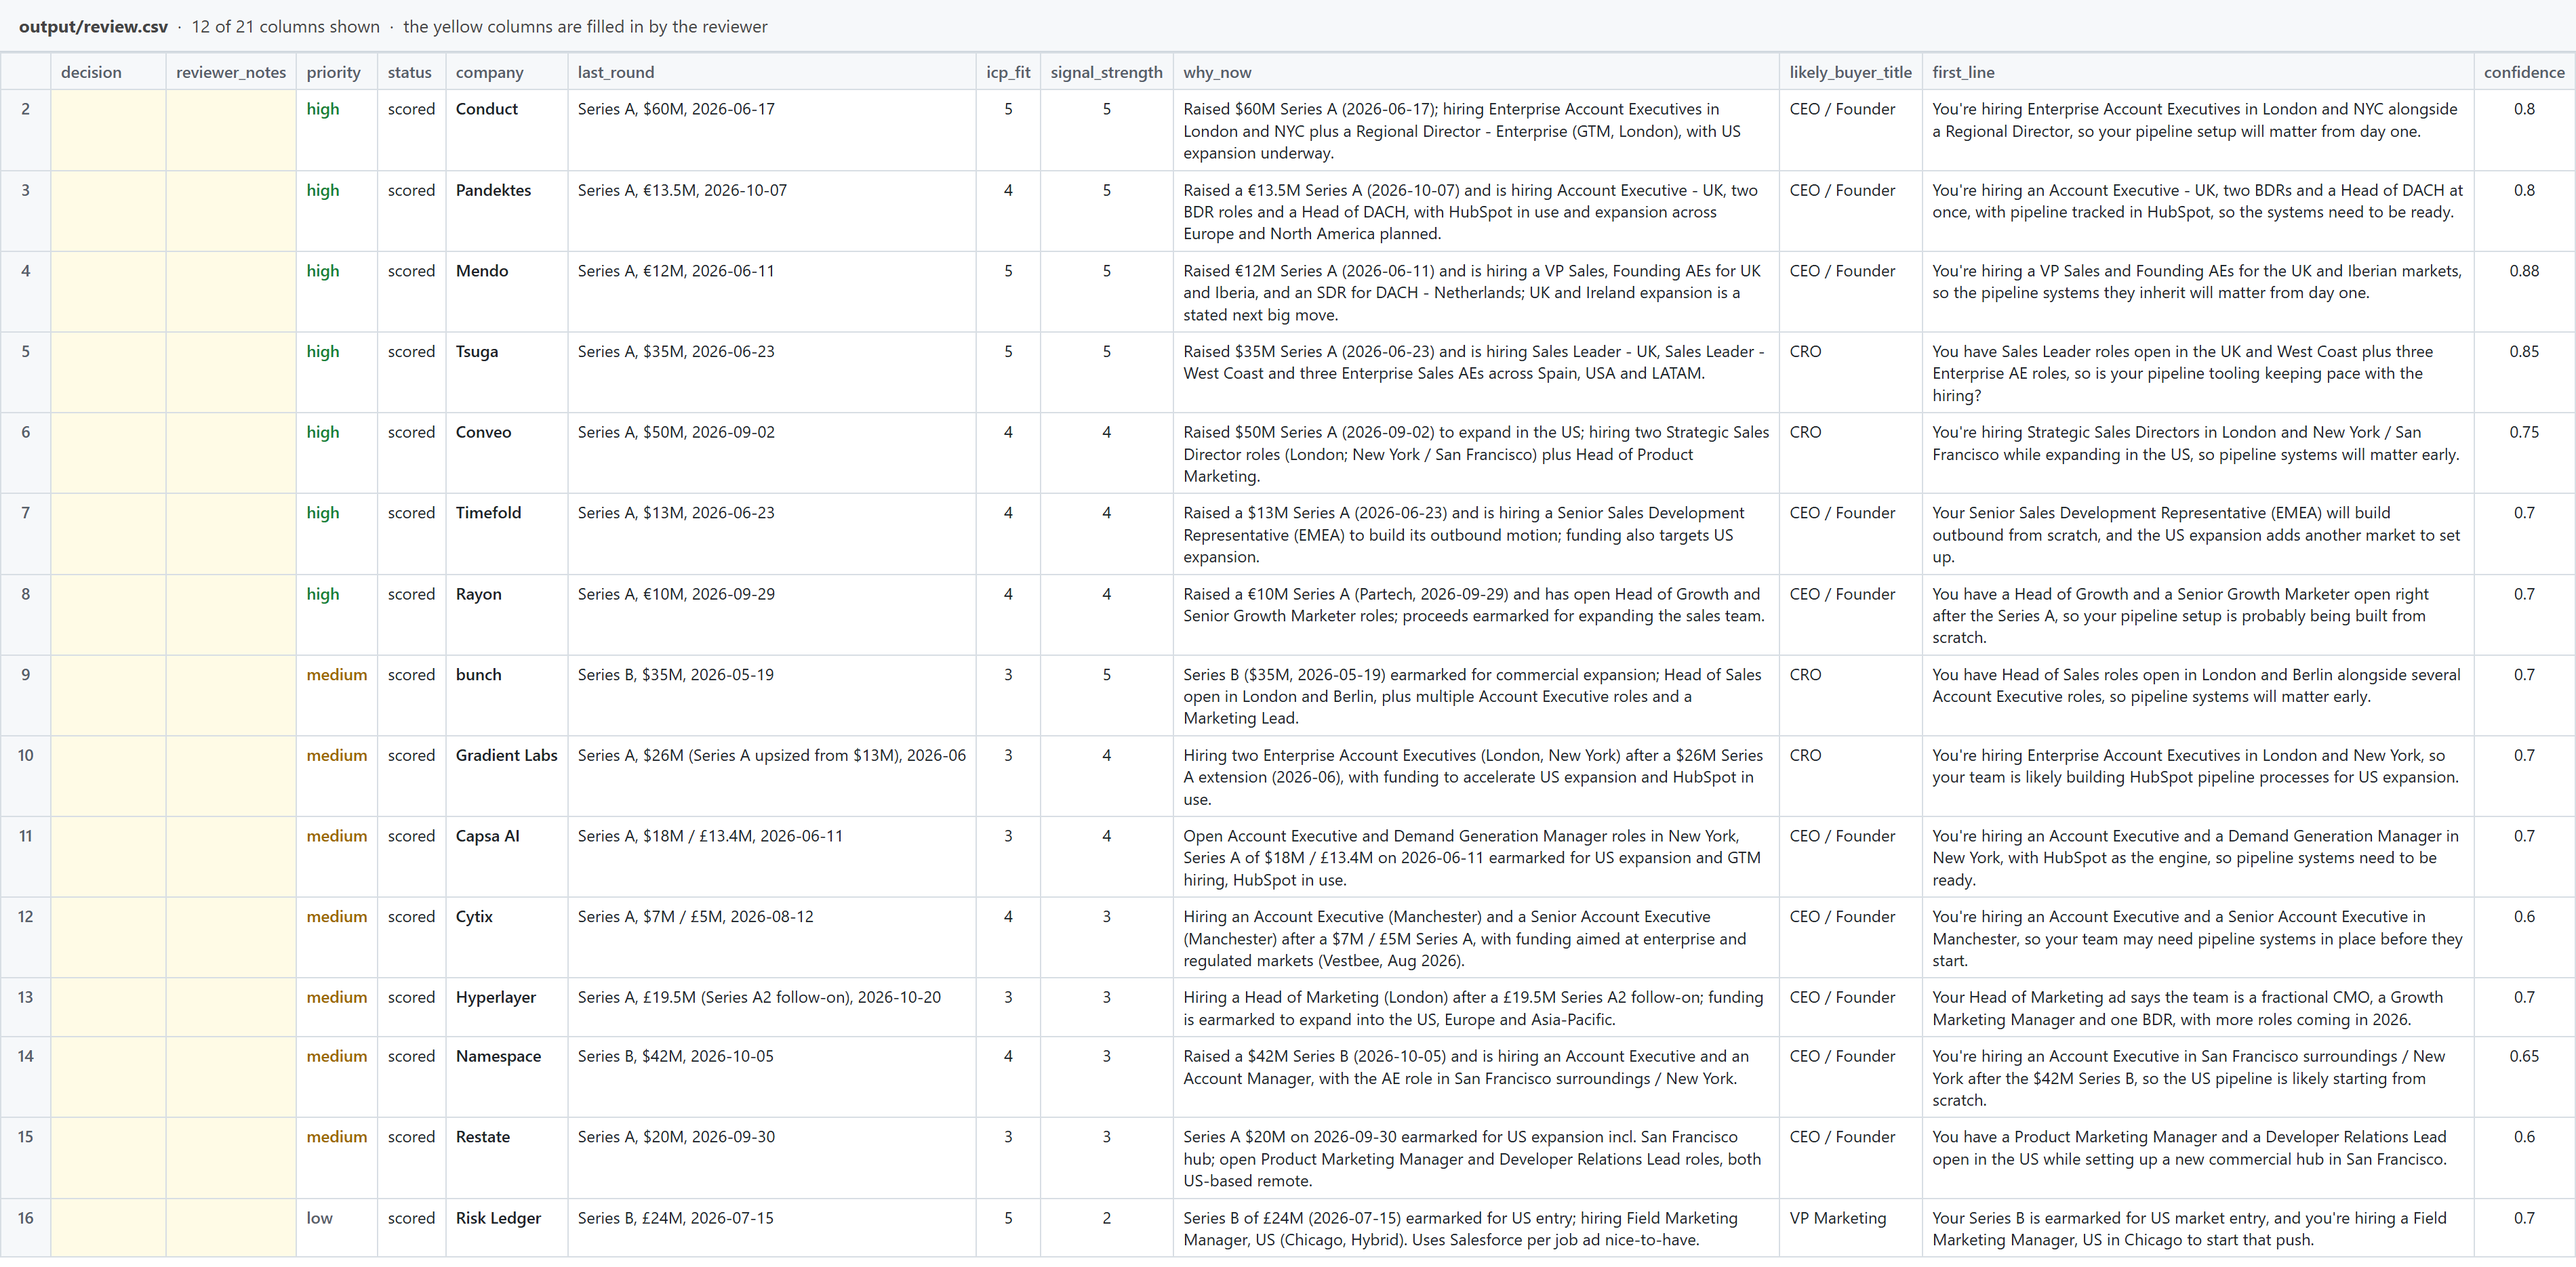
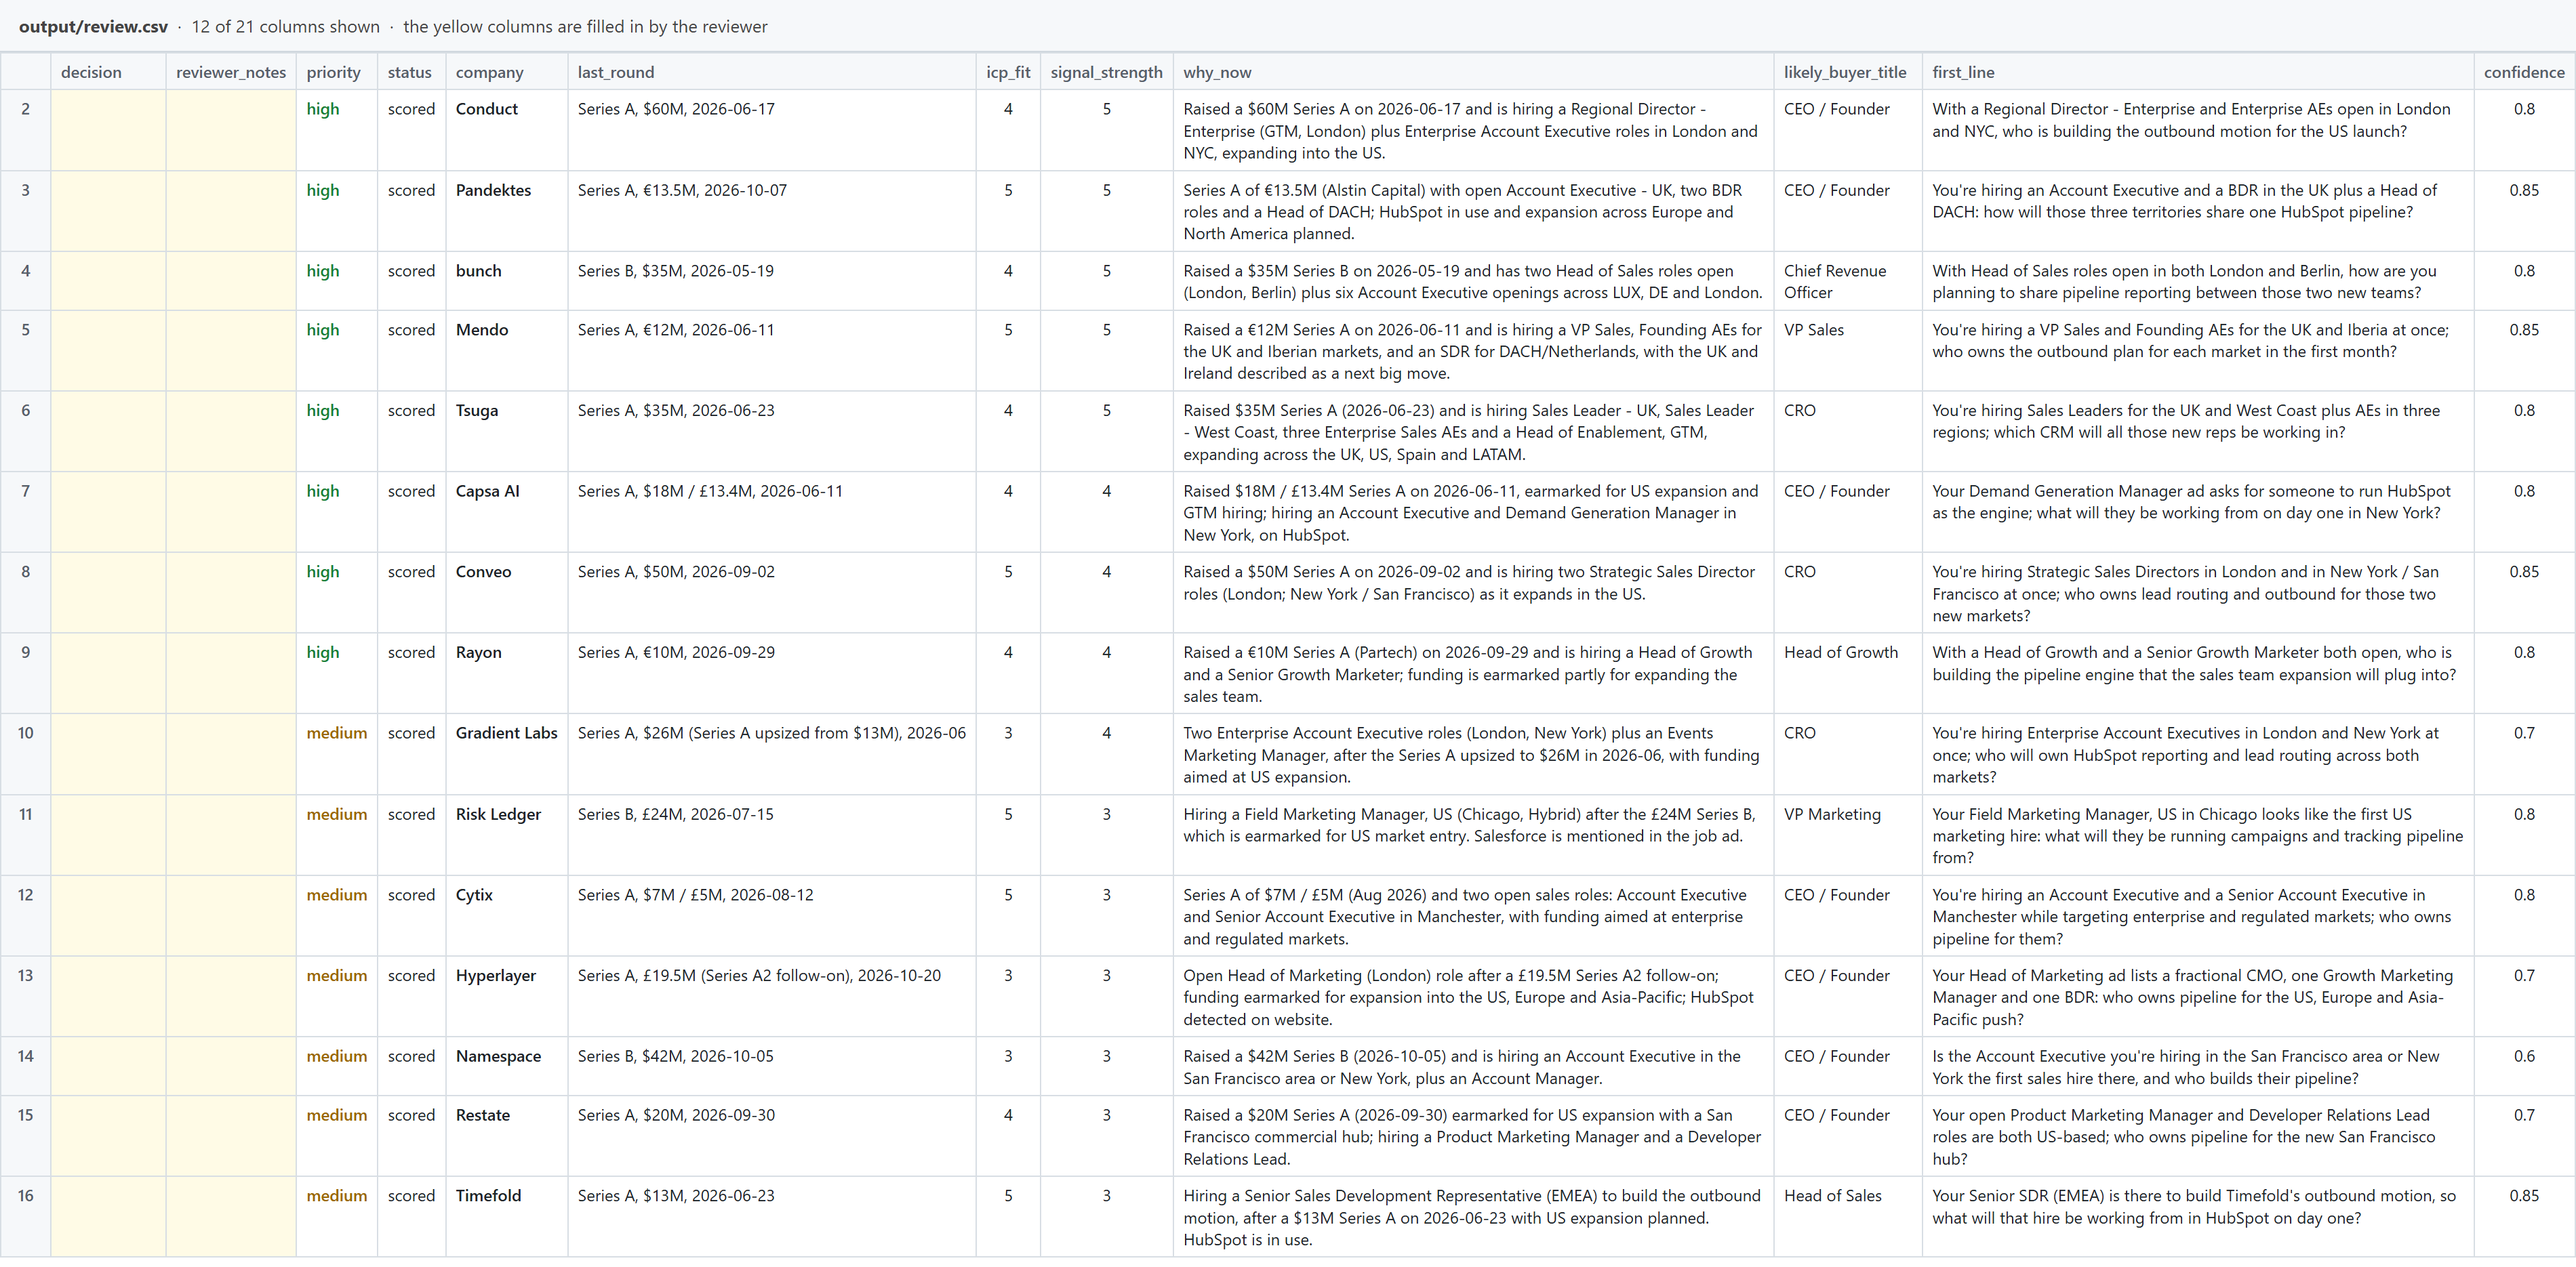
Vary opening lines: ban stock closers, natural place names, re-run demo
- Reject first_line closers like 'pipeline systems will matter from day one'
- Prompt picks one angle per record and ends on the specific observation
- Rephrase awkward job-board locations in natural English
- Re-run: 8 high, 7 medium, 0 low; 2 retries; 17 calls; about $0.12
- Update README run table, limitations and screenshots

diff --git a/src/score.ts b/src/score.ts
@@ -37,9 +37,11 @@ You receive one company record as JSON. It is the only source of truth. Return:
 - why_now: at most 200 characters. Must cite a specific signal from the record (a role title, the round, a bonus signal).
 - likely_buyer_title: one job title for the person most likely to own this problem, e.g. ${icp.buyer_titles.join(", ")}. A title only, never a person's name.
 - first_line: aim for about 130 characters; 160 is a hard limit and longer lines are rejected. One sentence, naming at most two roles. The opening line of an email to that buyer, written to them in the second person ("you", "your team") and not starting with the company name. It references the signal, states an observation, and contains no flattery or congratulations.
+  Pick the single angle most specific to this record: the particular hire and what it says about the team, the market they are entering, or what that new team will need in its first month. Lines for different companies should not read alike.
+  End on the concrete observation or a specific question. Never end on a generic consequence clause such as "so pipeline systems will matter from day one", "so the setup needs to be ready" or "built from scratch". Those phrasings are rejected.
 - confidence: 0 to 1. Lower it when fields in the record are empty.
 
-Grounding rule: why_now and first_line may only state facts found in the record. Copy names, role titles, amounts and places exactly as they are written there. Do not add outside knowledge about the company, and do not mention ${icp.seller.name}.`;
+Grounding rule: why_now and first_line may only state facts found in the record. Keep company names, role titles and amounts exactly as they are written there. Job-board location strings can be awkward: name the place in natural English without changing which place it is (for example "San Francisco surroundings / New York" becomes "the San Francisco area or New York"). Do not add outside knowledge about the company, and do not mention ${icp.seller.name}.`;
 }
 
 /** One API call. Returns the parsed JSON, or a string describing why there is none. */

diff --git a/src/validate.ts b/src/validate.ts
@@ -4,7 +4,10 @@ import { Score, type Company } from "./schema.js";
 // GTM vocabulary that is fine to use without appearing in the company record.
 const GENERIC = new Set(["gtm", "revops", "sdr", "sdrs", "bdr", "bdrs", "crm", "b2b", "saas", "ae", "aes", "ops", "icp"]);
 const FLATTERY = /\b(congrat\w*|impressive|amazing|awesome|incredible|love|loved|excited|exciting|kudos|great|fantastic)\b/i;
-const MONTHS = ["january", "february", "march", "april", "may", "june", "july", "august", "september", "october", "november", "december"];
+// Stock closers that make every opening line read the same. The line should end on the specific observation.
+const STOCK_CLOSER =
+  /\b(from day one|from scratch|will matter|matters? (early|now)|keeping pace|(need|needs|needed|have|has) to be (ready|working|in place|set up)|(pipeline|gtm) (systems?|setup|set-up|tooling|processes|infrastructure))\b/i;
+const MONTHS =["january", "february", "march", "april", "may", "june", "july", "august", "september", "october", "november", "december"];
 
 const fold = (s: string) => s.toLowerCase().normalize("NFKD").replace(/[̀-ͯ]/g, "");
 const wordsOf = (s: string) => fold(s).match(/[a-z]+/g) ?? [];
@@ -70,6 +73,8 @@ export function validateScore(raw: unknown, company: Company): Validation {
   }
   const flattery = score.first_line.match(FLATTERY);
   if (flattery) errors.push(`first_line contains flattery ("${flattery[0]}")`);
+  const closer = score.first_line.match(STOCK_CLOSER);
+  if (closer) errors.push(`first_line uses a stock phrase ("${closer[0]}"); end on the specific observation, not a generic consequence`);
 
   return errors.length ? { ok: false, errors } : { ok: true, score };
 }

diff --git a/src/validate.test.ts b/src/validate.test.ts
@@ -50,6 +50,11 @@ test("rejects facts that are not in the company record", () => {
   assert.match(error!, /York/);
 });
 
+test("rejects stock closers in the first line", () => {
+  const line = "You're hiring a Revenue Operations Manager, so pipeline systems will matter from day one.";
+  assert.match(errorsOf({ ...good, first_line: line })[0]!, /stock phrase/);
+});
+
 test("rejects flattery in the first line", () => {
   assert.match(errorsOf({ ...good, first_line: "Congrats on the Series A, impressive growth." })[0]!, /flattery/);
 });

diff --git a/README.md b/README.md
@@ -56,7 +56,7 @@ Optional, for Clay enrichment: in Claude Code run `/plugin marketplace add clay-
 | `npm run demo` | Scores the companies in `data/companies.json` and writes `output/review.csv`, `output/clay-import.csv` and `output/summary.json`. About 15 API calls. |
 | `npm run score -- --limit 3` | Same, first 3 companies only. |
 | `npm run score -- --input other.json` | Score a different company file. |
-| `npm test` | Runs 7 offline tests of validation, retry and `needs_review` (no API calls). |
+| `npm test` | Runs 8 offline tests of validation, retry and `needs_review` (no API calls). |
 | `/signal-to-outbound` in Claude Code | Runs the full skill: find, enrich, score, report. |
 
 A run that could exceed 50 API calls stops and asks for `--yes`.
@@ -71,7 +71,7 @@ Edit `config/icp.json`: the seller, the ICP criteria, the primary and bonus sign
 
 **Retry once, then stop.** A failed response is sent back with the exact validation errors. If the second attempt also fails, the row is written as `needs_review` with the scores blank and the reason in `validation_notes`. A blank row costs a reviewer a minute. A guessed row can cost a prospect's trust.
 
-**Grounding check.** The model is only allowed to use facts from the company record. `src/validate.ts` enforces a simple version of that: every number and every proper noun (a capitalised word that is not the first word of a sentence) in `why_now` and `first_line` must appear in the record. An invented amount, investor or city fails the row. A short banned-word list also rejects flattery in the opening line.
+**Grounding check.** The model is only allowed to use facts from the company record. `src/validate.ts` enforces a simple version of that: every number and every proper noun (a capitalised word that is not the first word of a sentence) in `why_now` and `first_line` must appear in the record. An invented amount, investor or city fails the row. A short banned-word list also rejects flattery in the opening line, and a second list rejects stock closers such as "so pipeline systems will matter from day one", which made early runs read alike.
 
 **Nothing auto-sends.** The pipeline ends at a file. The code contains no email, sequencer or CRM client, so the approval step cannot be skipped by mistake or by a prompt. A wrong line sent to a Series B CRO is not recoverable, and a person reading 15 rows takes ten minutes.
 
@@ -99,20 +99,21 @@ Before publishing, every row was re-checked against its sources on 11 November 2
 | | |
 |---|---|
 | Found / enriched / scored | 15 / 15 / 15 |
-| Priority | 7 high, 7 medium, 1 low |
+| Priority | 8 high, 7 medium, 0 low |
 | needs_review | 0 |
-| Retries | 0 |
-| API calls | 15 |
-| Cost | about $0.11 |
+| Retries | 2 |
+| API calls | 17 |
+| Cost | about $0.12 |
 
-There is only one "low" row because the input list is pre-filtered to Mazorda's ICP. Lows appear when the same scoring runs on a broader list.
+There are no "low" rows because the input list is pre-filtered to Mazorda's ICP. Lows appear when the same scoring runs on a broader list.
 
-No row failed validation in this run, so nothing landed in `needs_review`. That path is covered by an offline test instead: `src/score.test.ts` feeds the scorer a fixture that cites an investor and a city missing from the company record, and asserts the row is retried once and then written as `needs_review` with blank scores. `npm test` runs it without an API key.
+Two responses failed validation on the first attempt and passed on the retry: one opening line used a banned stock phrase ("pipeline setup"), and one mentioned "APAC", a term that is not in the company record (the record says "Asia-Pacific"). Both are noted in the sheet's `validation_notes` column. No row failed twice, so nothing landed in `needs_review`. That path is covered by an offline test instead: `src/score.test.ts` feeds the scorer a fixture that cites an investor and a city missing from the company record, and asserts the row is retried once and then written as `needs_review` with blank scores. `npm test` runs it without an API key.
 
 ## Limitations
 
 - **The grounding check is lexical.** It catches invented names and numbers. It does not catch a wrong relationship between true facts, or a false claim written entirely in lowercase words. It can also reject a fair paraphrase, which shows up as a retry.
 - **Signals go stale.** Job ads close. The sheet records what was true on the day of the run, and the reviewer should click through before approving.
+- **Opening lines still share a shape.** Banning the stock closers removed one formula, and most lines now end on a "who owns..." question instead. They are drafts for a person to edit, not finished copy.
 - **Scores vary between runs.** On identical data, a borderline company can move one priority band from one run to the next. The rubric narrows this but does not remove it, which is one more reason a person decides.
 - **Length needs a target below the limit.** When the prompt only stated the 160-character limit, about half of first attempts overran it and had to be retried. Asking for about 130 characters brought retries to zero or one per run.
 - **CRM is a best guess.** A HubSpot tag on a website shows the tool is in use, not that it is the system of record. Six companies still have no CRM.
